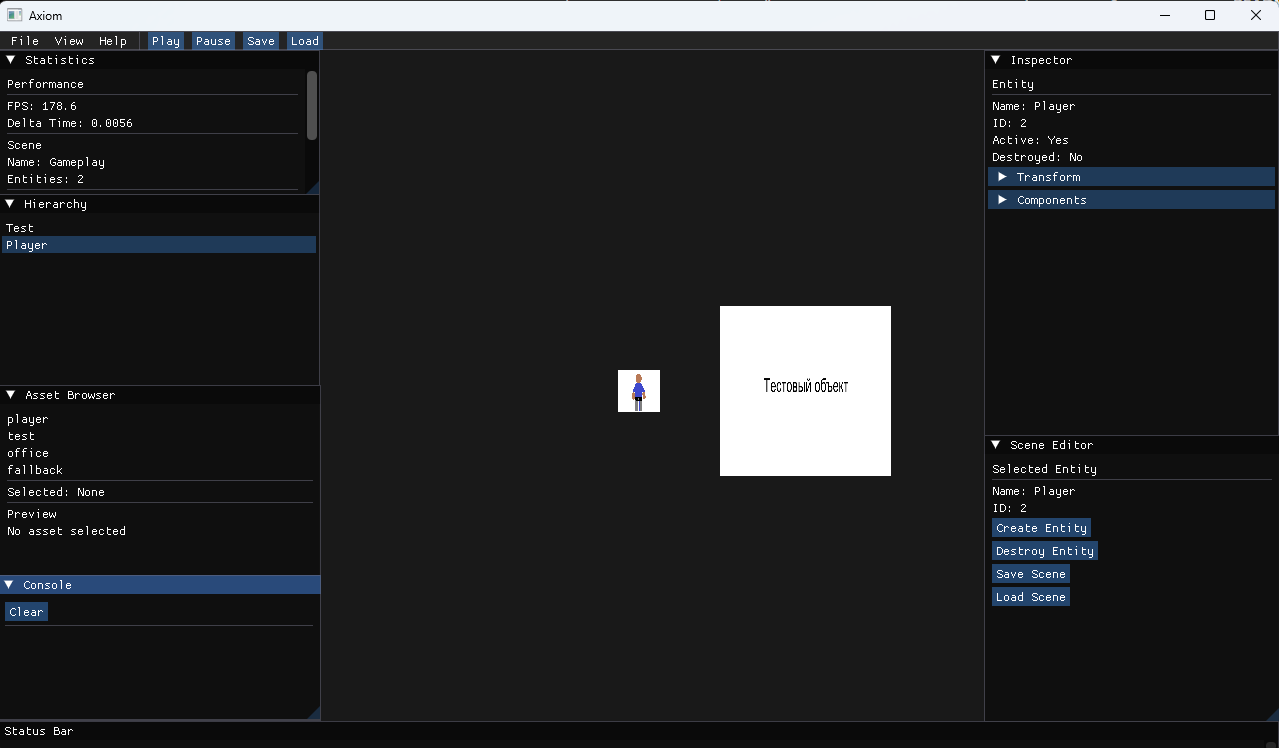
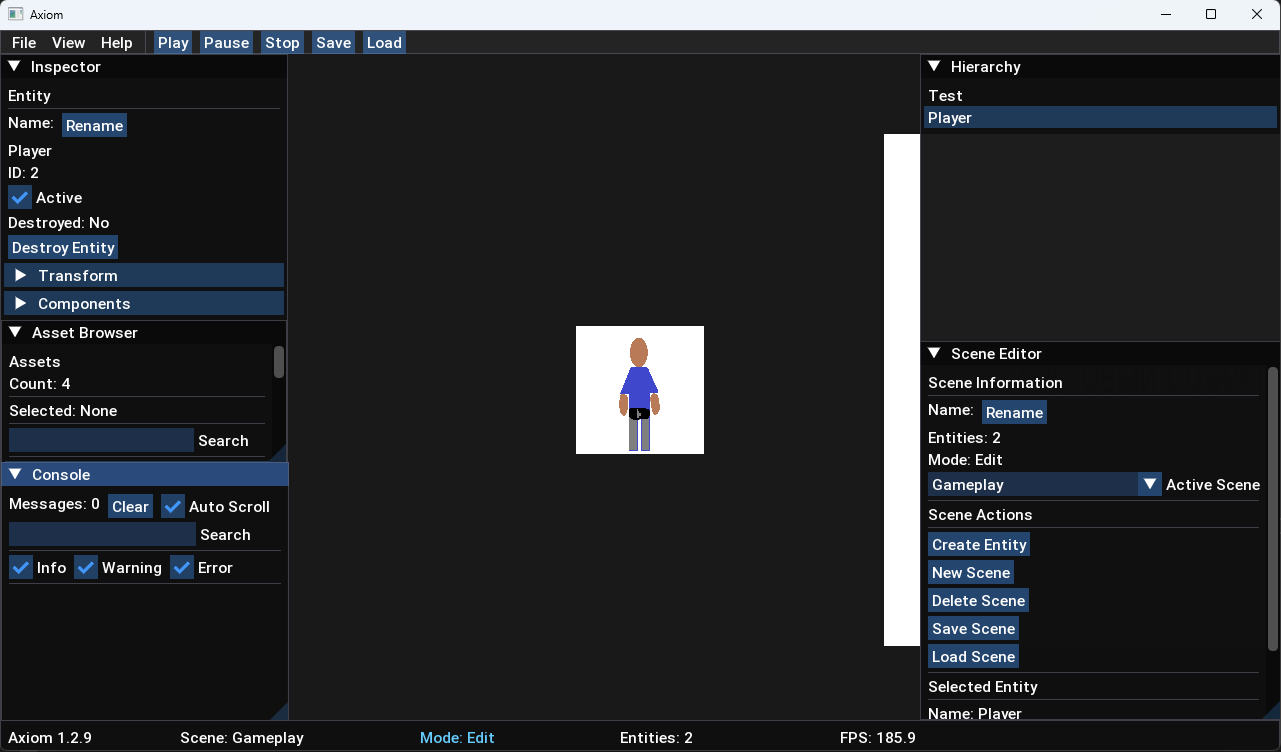
Polish editor, update documentation and finalize 1.2

diff --git a/src/Game/GameLayer.cpp b/src/Game/GameLayer.cpp
@@ -379,8 +379,6 @@ void GameLayer::handleEditorTools()
         sceneEditorPanel.resetRenameSceneRequest();
     }
 
-    sceneEditorPanel.setSceneMode("Edit");
-
     hierarchyPanel.clear();
 
     scene->forEach([&](Entity* entity)
@@ -644,25 +642,6 @@ void GameLayer::updateEditorStatus(float dt)
                 playerControllerCount++;
         });
 
-    statisticsPanel.setStats(
-        dt > 0.0f ? 1.0f / dt : 0.0f,
-        dt,
-        sceneManager.getActiveSceneName(),
-        static_cast<int>(getEntityCount()),
-        scene->camera.position,
-        scene->camera.zoom,
-        getPlayerPosition(),
-        spriteCount,
-        colliderCount,
-        velocityCount,
-        playerControllerCount,
-        AssetRegistry::getRegisteredTextureCount(),
-        ResourceManager::getLoadedTextureCount(),
-        "Edit",
-        1280,
-        720
-    );
-
     debugOverlay.setSceneInfo(
         sceneManager.getActiveSceneName(),
         getEntityCount()
@@ -716,6 +695,25 @@ void GameLayer::updateEditorStatus(float dt)
         }
     }
 
+    statisticsPanel.setStats(
+        dt > 0.0f ? 1.0f / dt : 0.0f,
+        dt,
+        sceneManager.getActiveSceneName(),
+        static_cast<int>(getEntityCount()),
+        scene->camera.position,
+        scene->camera.zoom,
+        getPlayerPosition(),
+        spriteCount,
+        colliderCount,
+        velocityCount,
+        playerControllerCount,
+        AssetRegistry::getRegisteredTextureCount(),
+        ResourceManager::getLoadedTextureCount(),
+        stateText,
+        1280,
+        720
+    );
+
     debugOverlay.setGameState(stateText);
 
     editorUI.setStatusInfo(
@@ -724,6 +722,8 @@ void GameLayer::updateEditorStatus(float dt)
         static_cast<int>(getEntityCount()),
         dt > 0.0f ? 1.0f / dt : 0.0f
     );
+
+    sceneEditorPanel.setSceneMode(stateText);
 }
 
 void GameLayer::updateGameplay(float dt)

diff --git a/src/Editor/EditorUI.cpp b/src/Editor/EditorUI.cpp
@@ -96,7 +96,7 @@ namespace Axiom {
                 ImGui::Text("Axiom Engine");
                 ImGui::Separator();
 
-                ImGui::Text("Version: 1.2.7");
+                ImGui::Text("Version: 1.2.9");
                 ImGui::Text("Language: C++17");
                 ImGui::Text("Renderer: OpenGL");
                 ImGui::Text("UI: ImGui");
@@ -133,7 +133,7 @@ namespace Axiom {
                     ImGuiWindowFlags_NoScrollWithMouse
                 );
 
-                ImGui::Text("Axiom 1.2.7");
+                ImGui::Text("Axiom 1.2.9");
 
                 ImGui::SameLine(180);
                 ImGui::Text("Scene: %s", sceneName.c_str());

diff --git a/src/Editor/Panels/StatisticsPanel.cpp b/src/Editor/Panels/StatisticsPanel.cpp
@@ -13,9 +13,8 @@ namespace Axiom {
 
         if (ImGui::CollapsingHeader("Engine", ImGuiTreeNodeFlags_DefaultOpen))
         {
-            ImGui::Text("Version: %s", "1.2.6");
+            ImGui::Text("Version: %s", "1.2.9");
             ImGui::Text("Renderer: OpenGL");
-            ImGui::Text("Mode: Edit");
         }
 
         if (ImGui::CollapsingHeader("Runtime", ImGuiTreeNodeFlags_DefaultOpen))

diff --git a/src/Scene/SceneSerializer.cpp b/src/Scene/SceneSerializer.cpp
@@ -23,7 +23,7 @@ namespace Axiom {
         }
 
         file << "Axiom Scene\n";
-        file << "Version: 1.1.5\n";
+        file << "Version: 1.2.9\n";
         file << "Entities: "
             << scene.getEntityCount()
             << "\n";
@@ -73,7 +73,6 @@ namespace Axiom {
         void SceneSerializer::load(
             Scene& scene,
             const std::string& path
-            // TODO: Reconstruct scene entities from serialized data.
         )
         {
             (void)scene;

diff --git a/src/DebugTools/DebugOverlay.cpp b/src/DebugTools/DebugOverlay.cpp
@@ -23,7 +23,7 @@ namespace Axiom {
 
         if (ImGui::CollapsingHeader("Editor", ImGuiTreeNodeFlags_DefaultOpen))
         {
-            ImGui::Text("Version: 1.2.7");
+            ImGui::Text("Version: 1.2.9");
             ImGui::Text("Renderer: OpenGL");
         }
 

diff --git a/VERSION.md b/VERSION.md
@@ -194,8 +194,41 @@ debugging tools, and an integrated editor.
 - Runtime scene restoration
 - Runtime switching stability
 
+---
+
+## v1.2 — Editor Generation I
+
+### Added
+
+- FreeType integration
+- Hierarchy improvements
+- Inspector improvements
+- Scene Editor improvements
+- Asset Browser improvements
+- Console Panel
+- Statistics Panel
+- Status Bar
+- Preferences Panel
+
+### Changed
+
+- Editor interface redesigned
+- Scene management workflow improved
+- Runtime information unified
+- Editor panels polished
+
+### Fixed
+
+- Status synchronization between editor panels
+- Scene Editor runtime state
+- Statistics runtime information
+- Status Bar improvements
+- Various editor bugs and UI issues
+
 ### Goal
 
-Establish a robust runtime architecture for gameplay simulation inside the editor.
+Complete the first generation of the Axiom Editor.
 
-Prepare the engine for future gameplay systems and editor/runtime separation.
+Provide a stable, integrated editor for scene management, debugging,
+resource browsing and runtime control before moving to the next stage
+of engine development.

diff --git a/README.md b/README.md
@@ -9,6 +9,14 @@ Its core systems include ECS, scene management, resource management, scene seria
 
 ## Editor
 
+## Editor
+
+The first generation of the Axiom Editor.
+
+It provides integrated tools for scene editing, entity inspection,
+asset management, debugging, and runtime control, forming the foundation
+for 2D game development with Axiom.
+
 ![Axiom Editor](docs/images/axiom-editor.png)
 
 ## Features
@@ -40,6 +48,8 @@ Its core systems include ECS, scene management, resource management, scene seria
   - Asset Browser Panel
   - Console Panel
   - Statistics Panel
+  - Status Bar
+  - Preferences Panel
 
 ## Technologies
 
@@ -87,8 +97,8 @@ Build and run the project
 
 ## Current Status
 
-Axiom Engine 1.1.х introduces the Runtime architecture, extending the first stable release with a dedicated runtime workflow for gameplay execution inside the editor.
+Axiom Engine 1.2.x completes the first generation of the integrated editor, extending the Runtime architecture with a complete editor workflow for scene editing, debugging, resource management, and runtime control.
 
-The engine now provides a solid 2D foundation including rendering, ECS, runtime management, scene management, resource management, serialization, debugging tools, and an integrated editor.
+The engine now provides a solid 2D foundation including rendering, ECS, runtime management, scene management, resource management, serialization, debugging tools, and the first-generation integrated editor.
 
-Future versions will continue expanding the engine with new editor features, gameplay systems, rendering improvements, and additional tools.
+Future versions will continue expanding the engine with gameplay systems, rendering improvements, editor enhancements, and additional development tools.